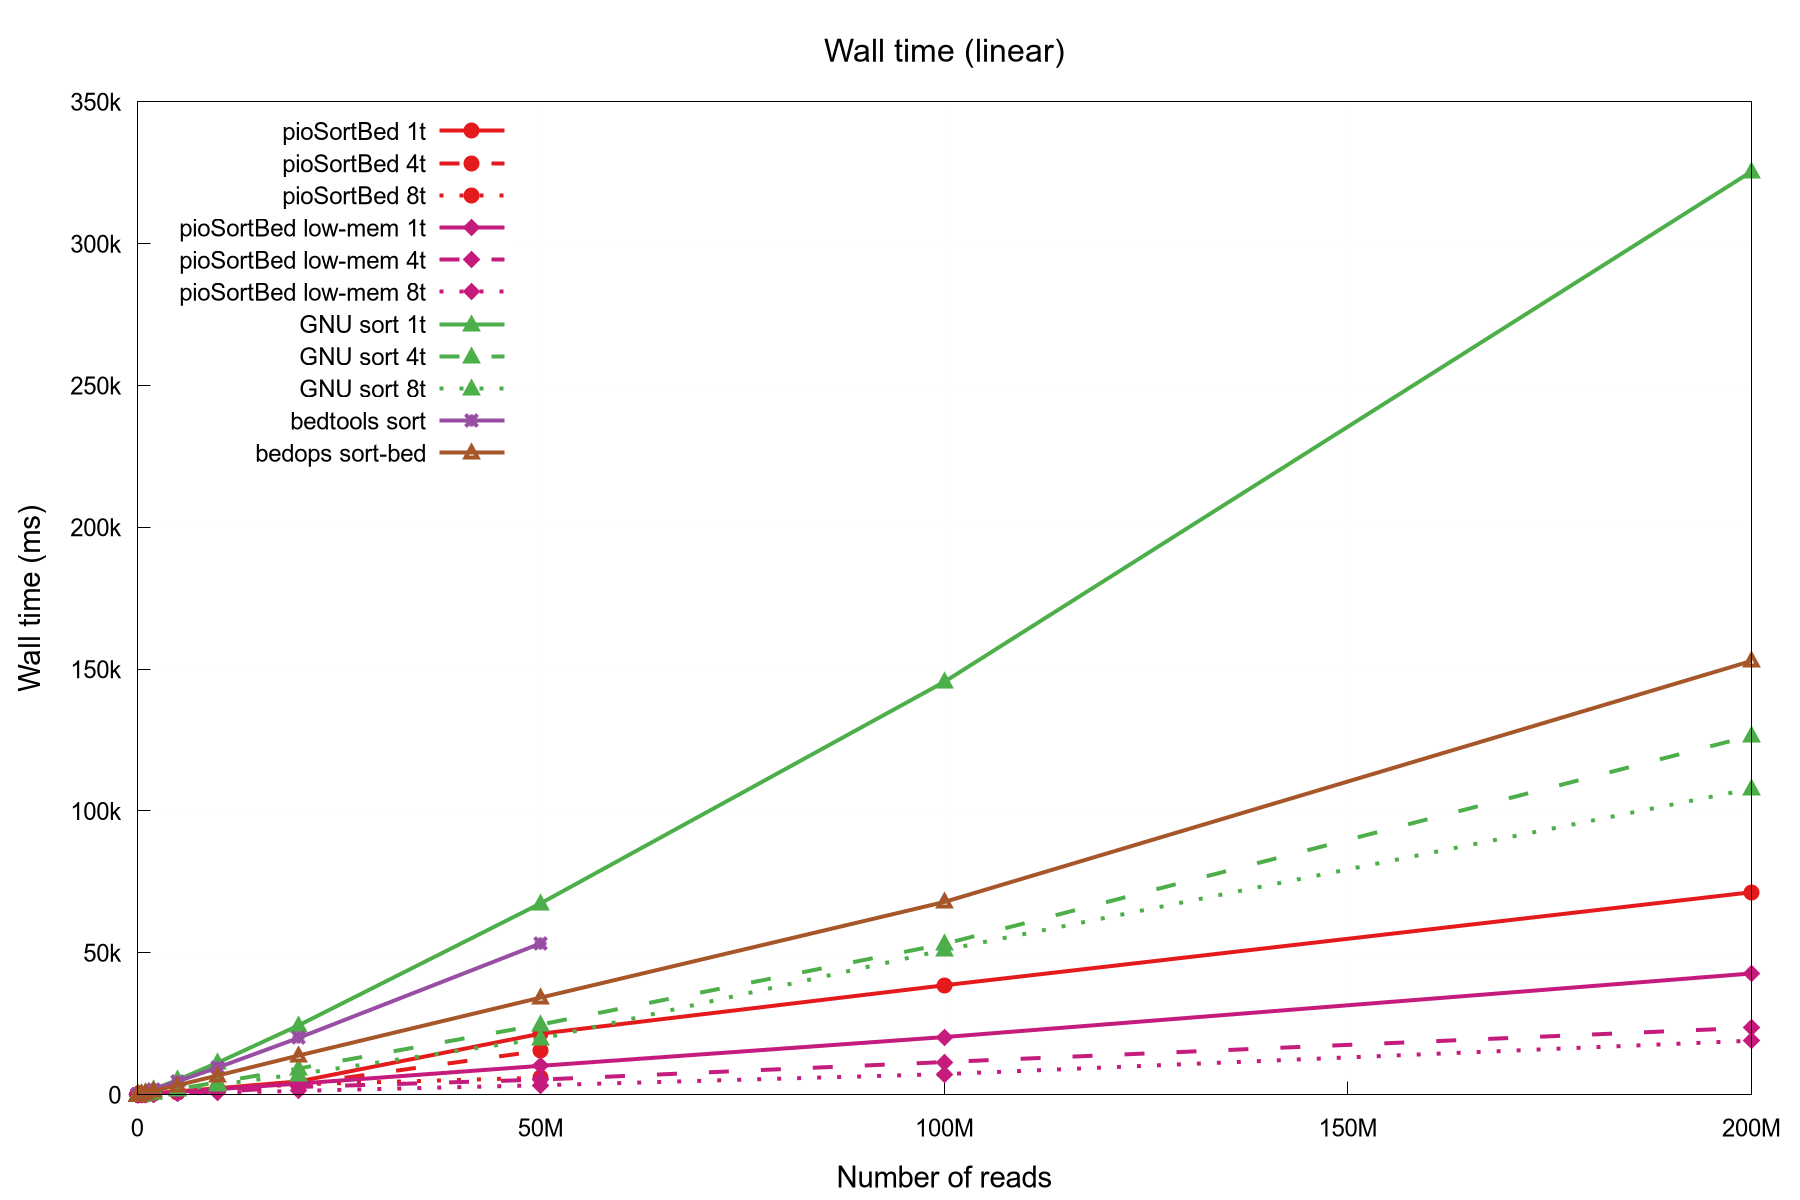
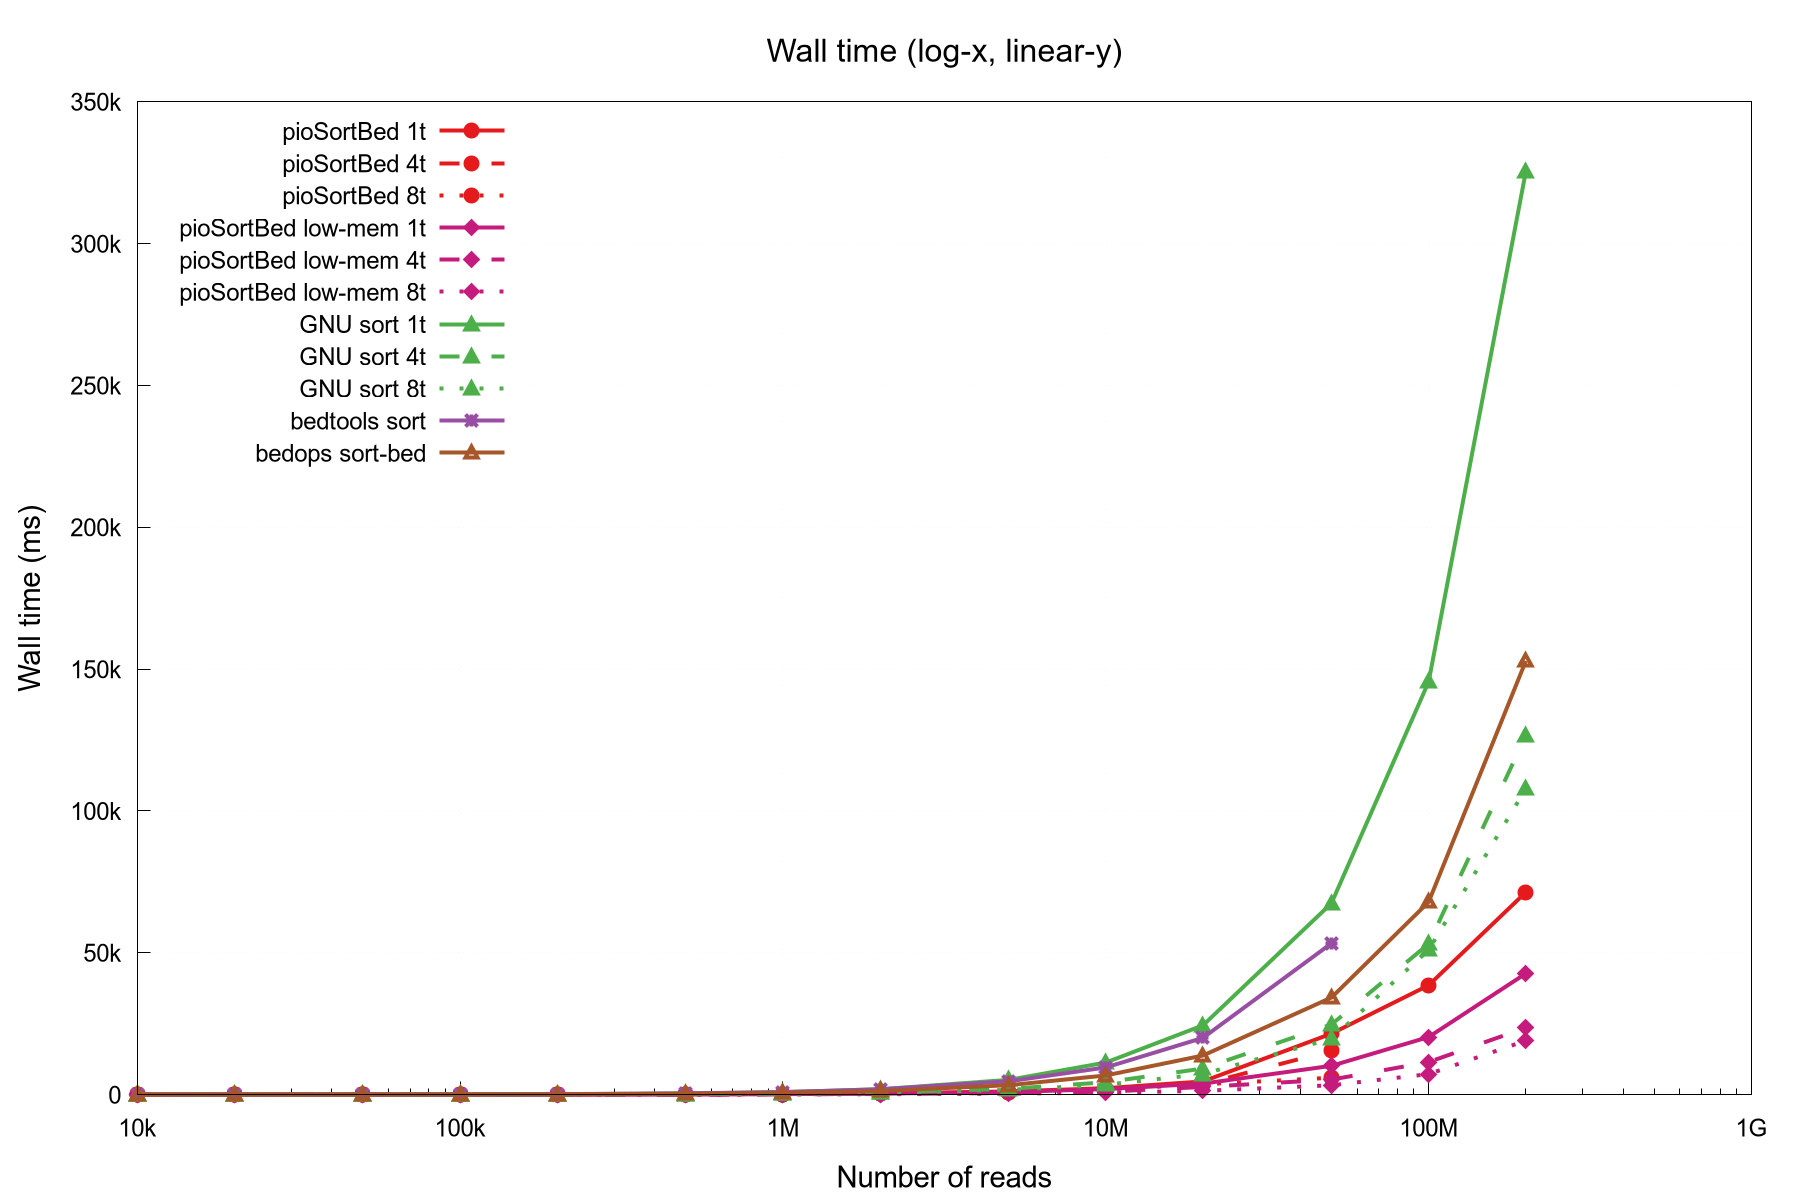
plots: switch the second pair from linear-x/linear-y to log-x/linear-y
The fully-linear plots squashed everything below ~50M reads into the
left edge because the x-range spans 4 decades (10k-200M). Switching x
to log keeps the points evenly spaced across the range while the
linear y still shows the absolute differences accurately at the high
end (where GNU sort 1t blows up to 5+ minutes and pio-lm-8t stays
under 20s).

plot_readme.gp: removed the unset logscale x / set xrange [0:*] in
the second pair; kept the log-x and the [1e4:] range from the log-log
block. Added a section comment explaining the choice. Titles and
header banner updated to "log-x, linear-y".

README image alt text updated to match.

diff --git a/README.md b/README.md
@@ -135,7 +135,7 @@ Wall time and peak RSS (resident set size) measured with GNU time. Times in seco
 
 ![Wall time comparison (log-log)](benchmark/benchmark_time.png)
 
-![Wall time comparison (both axes linear)](benchmark/benchmark_time_linear.png)
+![Wall time comparison (log-x, linear-y)](benchmark/benchmark_time_linear.png)
 
 #### Legend (colour & line style):
 
@@ -205,7 +205,7 @@ Same colour per tool family; thread count distinguished by line style (`-t 1` so
 
 ![Peak memory usage (log-log)](benchmark/benchmark_memory.png)
 
-![Peak memory usage (both axes linear)](benchmark/benchmark_memory_linear.png)
+![Peak memory usage (log-x, linear-y)](benchmark/benchmark_memory_linear.png)
 
 | Reads | pio 1t  | pio 4t   | pio 8t      | pio lm 1t  | pio lm 4t | pio lm 8t | sort 1t  | sort 4t  | sort 8t | bedtools | bedops   |
 |------:|--------:|---------:|------------:|-----------:|----------:|----------:|---------:|---------:|--------:|---------:|---------:|
